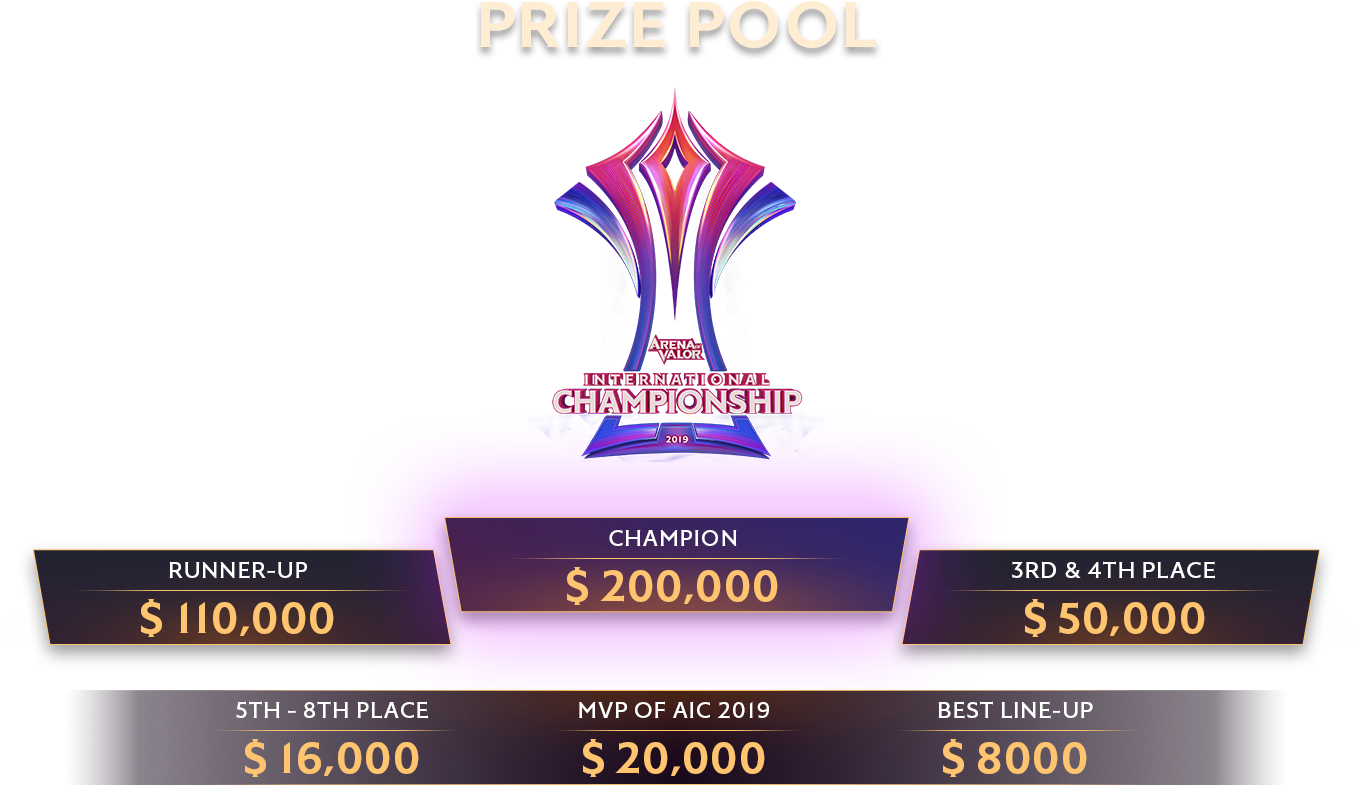
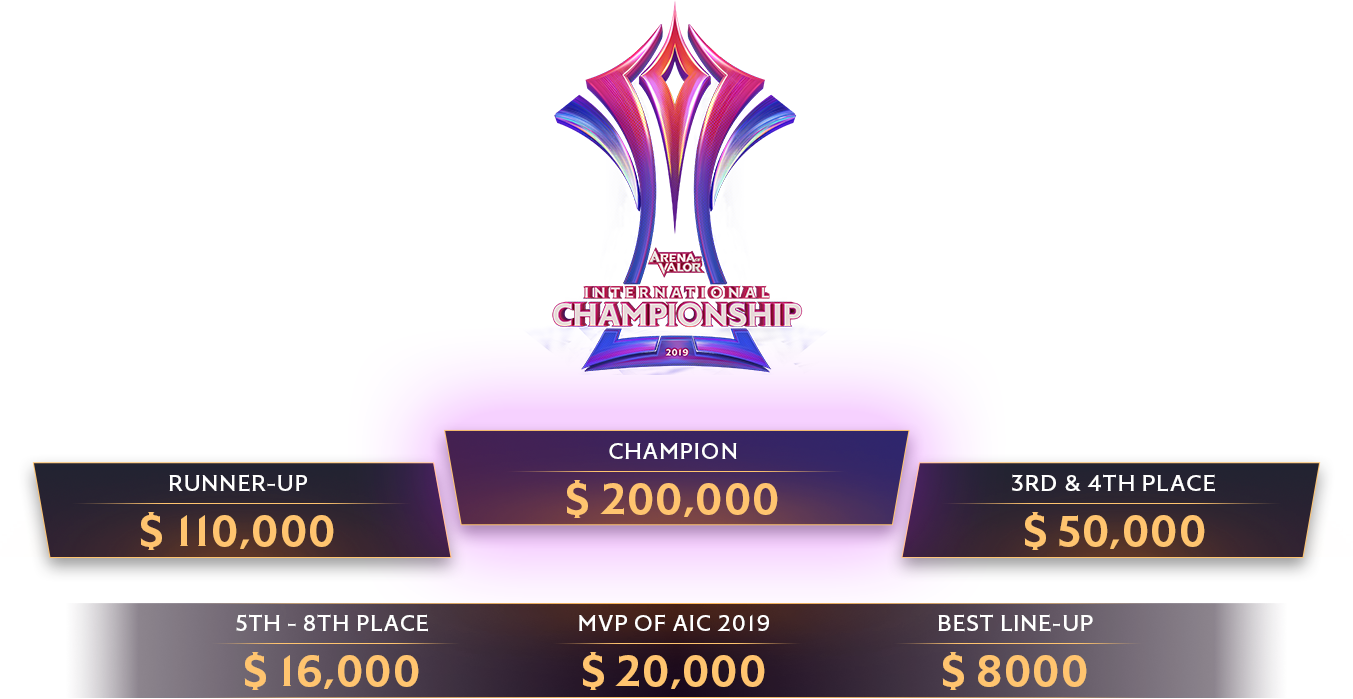
update css home + prize

Changed region(s): [[0.0, 0.0, 0.9933, 1.0]]

diff --git a/src/index.css b/src/index.css
@@ -17,17 +17,20 @@ body {
   font-size: calc(0.1em + 1vw);
 }
 #root{
-  min-height: 100vh;
+  height: 100vh;
   display: flex;
   align-items: center;
+  position: fixed;
+  width: 100%;
+  left: 0px;
+  top:0px;
 }
 .main{
   width: 100%;
-  min-height: 90vh;
+  min-height: 90%;
   position: relative;
   text-align: center;
 }
-
 code {
   font-family: source-code-pro, Menlo, Monaco, Consolas, "Courier New",
     monospace;
@@ -161,4 +164,57 @@ a,a:hover,a:focus{
 }
 .language .select-language option{
   color: #000;
+}
+.play-game{
+  display: none;
+  position: fixed;
+  bottom: 2vh;
+  left: 50%;
+  transform: translateX(-50%);
+  font-size: calc(1.2em + 1vw);
+  font-weight: 700;
+}
+.play-game a{
+  display: inline-block;
+  background: #0f0510;
+  color: #ffc46f;
+  border:1px solid #ffc46f;
+  padding: 5px 15px;
+}
+@media (max-width: 800px) and (min-height:480px){
+  .language,.scroll-down-menu,.scroll-up-menu{
+    display: none;
+  }
+  .play-game{
+    display: block;
+  }
+  .sidebar{
+    background: none;
+  }
+  .bnt-sidebar{
+    font-size:2em;
+  }
+  .sidebar ul{
+    display: none;
+  }
+  .sidebar.open-sidebar{
+    width: 50vw;
+    background: rgba(0,0,0,0.9);
+  }
+  .sidebar.open-sidebar .btn-close-menu{
+    font-size: 2em;
+  }
+  .top-sidebar{
+    left: 10px;
+  }
+  .sidebar.open-sidebar .top-sidebar{
+    top:0px;
+    left: 0px;
+  }
+  .sidebar.open-sidebar ul{
+    display: block;
+  }
+  .sidebar.open-sidebar li{
+    font-size: 2.5em;
+  }
 }

diff --git a/src/containers/Prize/Prize.js b/src/containers/Prize/Prize.js
@@ -11,7 +11,6 @@ import { FontAwesomeIcon } from '@fortawesome/react-fontawesome'
 import { library } from '@fortawesome/fontawesome-svg-core'
 import { fab } from '@fortawesome/free-brands-svg-icons'
 import { faArrowUp, faArrowDown } from '@fortawesome/free-solid-svg-icons'
-import imagePrize from '../../images/prize.png'
 export default () => {
   library.add(fab, faArrowUp, faArrowDown)
   return (
@@ -22,7 +21,9 @@ export default () => {
           <FontAwesomeIcon icon="arrow-up" />
         </Link>
       </div>
-      <img src={imagePrize} alt="Giải thưởng" />
+      <h3 className="title-schedule">PRIZE POOL</h3>
+      <img className="prize-desktop" src={require('../../images/prize.png')} alt="Giải thưởng" />
+      <img className="prize-mb" src={require('../../images/prize-mb.png')} alt="Giải thưởng"/>
       <div className="scroll-down-menu">
         <Link to="/schedule">
           {' '}

diff --git a/src/containers/Homepage/homepage.css b/src/containers/Homepage/homepage.css
@@ -63,6 +63,7 @@
   width: calc(2em + 2px);
   line-height: 2em;
   border-radius: 50%;
+  color: #ffc46f;
 }
 .menu-text a{
   display: block;
@@ -70,4 +71,36 @@
   width: 100%;
   padding: 1.3em 0px 0.5em 0px;
   font-size: calc(0.2em + 1vw);
+  border-top:1px solid #ffc46f;
+}
+@media (max-width: 800px) and (min-height:480px){
+  .homepage{
+    width: 75%;
+  }
+  .btn-watch-now svg.circle{
+    padding: 0px;
+  }
+  .home-intro img{
+    height: 14vh;
+  }
+  .home-menu{
+    height: 56vh;
+  }
+  .menu-item{
+    width: 46%;
+    margin: 2%!important;
+    height: 46%;
+    overflow: hidden;
+  }
+  .menu-text .menu-icon{
+    width: calc(4em + 2px);
+    line-height: 4em;
+  }
+  .menu-icon svg.svg-inline--fa{
+    width: 1.5em;
+    height: 1.5em;
+  }
+  .menu-text a{
+    font-size: calc(1.2em + 1vw);
+  }
 }

diff --git a/src/Main.js b/src/Main.js
@@ -72,6 +72,9 @@ export default () => {
             <Route path="/photodetail" component={Photodetail} />
             <Route path="/photovideo" component={Photovideo} />
           </div>
+          <div className="play-game">
+            <a href="https://www.youtube.com">PLAY GAME</a>
+          </div>
         </Error>
       </Loading>
     </Router>

diff --git a/src/containers/Sidebar/index.js b/src/containers/Sidebar/index.js
@@ -29,7 +29,7 @@ import { useStateValue } from '../../State'
 import NavItem from '../../components/NavItem'
 
 export default () => {
-  const [isSidebarOpen, setCollapseSidebar] = useState(true)
+  const [isSidebarOpen, setCollapseSidebar] = useState(false)
 
   const [{ menu }] = useStateValue()
 

diff --git a/src/containers/Prize/prize.css b/src/containers/Prize/prize.css
@@ -9,3 +9,18 @@
   max-width: 100%;
   width: 100%;
 }
+.prize-mb{
+  display: none;
+}
+@media (max-width: 800px) and (min-height:480px){
+  .prizepage{
+    width: 100%;
+  }
+  .prize-mb{
+    display: block;
+    margin-top: 20px;
+  }
+  .prize-desktop{
+    display: none;
+  }
+}
